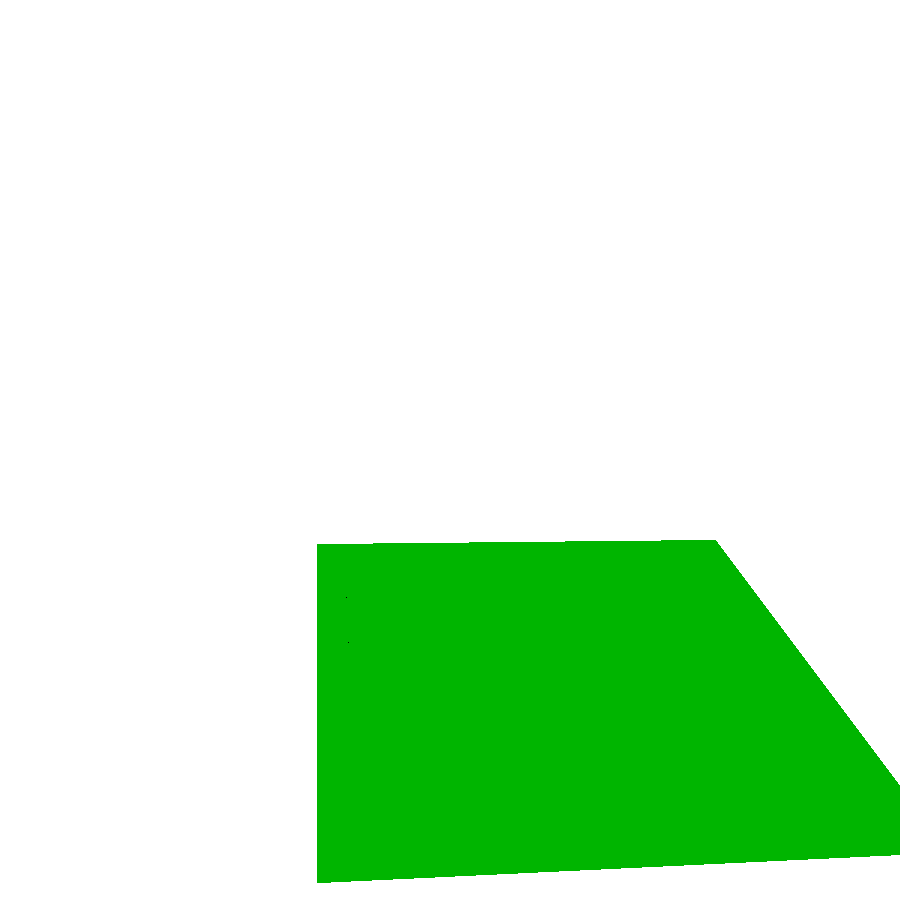
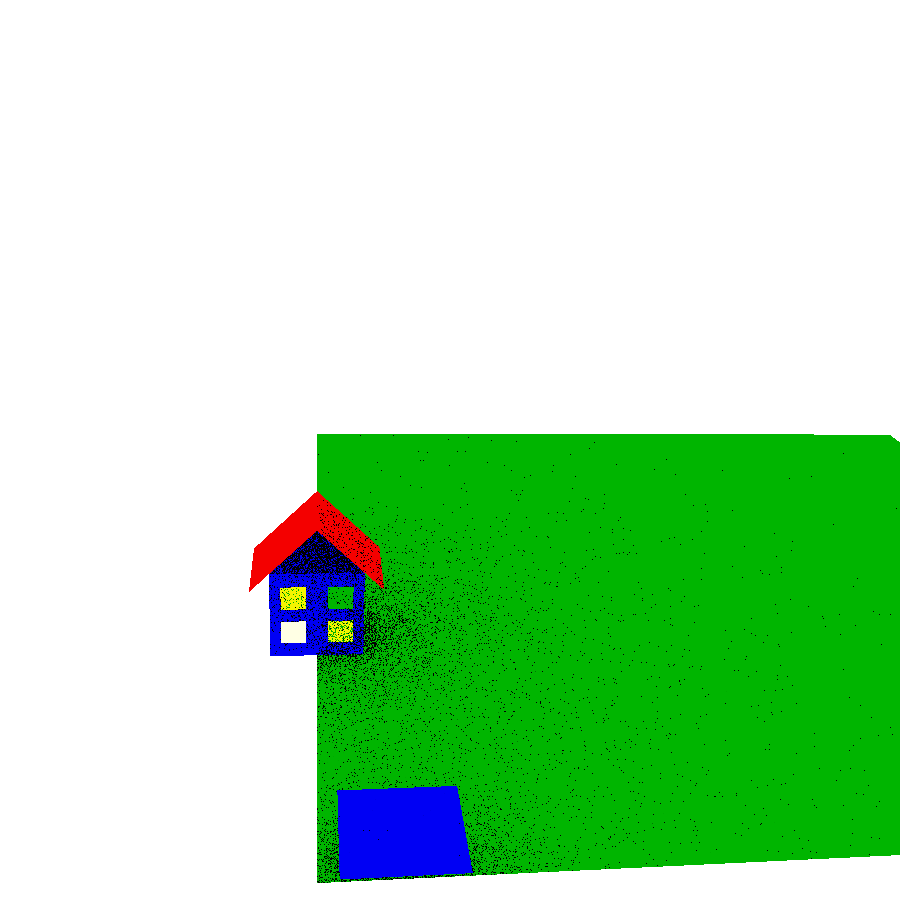
Box geht richtig

Changed region(s): [[0.28, 0.4667, 1.0, 0.8711], [0.3422, 0.8711, 0.56, 0.9956]]

diff --git a/src/cgg/a05/Group.java b/src/cgg/a05/Group.java
@@ -35,15 +35,10 @@ public class Group implements Shape {
         }
         box = BoundingBox.empty;
         for(int i= 0; i < elemente.size(); i++) {
-            box = box.extend(elemente.get(i).getBoundingBox());
+            box = box.extend(elemente.get(i).getBoundingBox().transform(transformation));
         }
-        if(!transformationInvert.equals(Mat44.identity)){
-            boxTransformiert = box.transform(transformationInvert);
-        }
-        else {
-            boxTransformiert = box;
-        }
-        //System.out.println(box.toString());
+        boxTransformiert = box;//.transform(transformationInvert);
+        System.out.println(box.toString());
     }
 
     public Group(Shape... shapes) {
@@ -61,7 +56,7 @@ public class Group implements Shape {
         elemente = shapes;
         box = BoundingBox.empty;
         for(int i= 0; i < elemente.size(); i++) {
-            box = box.extend(elemente.get(i).getBoundingBox());
+            box = box.extend(elemente.get(i).getBoundingBox().transform(transformation));
         }
         boxTransformiert = box;//.transform(transformation);
         System.out.println(box.equals(boxTransformiert));
@@ -78,7 +73,7 @@ public class Group implements Shape {
         Hit treffer = null; //nur fuer Initialisierung
         Ray r2 = new Ray(multiplyPoint(transformationInvert, r.getX0()), multiplyDirection(transformationInvert, r.getRichtung()), r.gettMin(), r.gettMax());
         
-        if(boxTransformiert.intersect(r2) == false) {
+        if(boxTransformiert.intersect(r) == false) {
             return null;
         }
         if(box.intersect(r) == false) {

diff --git a/src/cgg/a07/Main.java b/src/cgg/a07/Main.java
@@ -38,8 +38,8 @@ public class Main {
     DiffusStreuung gruen = new DiffusStreuung(new ConstantColor(color(0,0.52,0)), new ConstantColor(white), new ConstantColor(color(1000.0)));
     MaterialSpiegel spiegelMat = new MaterialSpiegel(new ConstantColor(white), new ConstantColor(white), new ConstantColor(color(1000.0)));
 
-    
-
+    System.out.println("Ebene:");
+    Group ebene = new Group(move(vec3(2, 0, 0)), new Ebene("quadratisch", 3, blau));
     Group wandVorne = new Group(multiply(move(vec3(0, 0, -10)), rotate(vec3(1,0,0), 90)), new Ebene("quadratisch", 3, blau));
     Group wandSeiteLinks = new Group(multiply(move(vec3(-1.5, 0, -11.5)), rotate(vec3(0,0,1), 90)), new Ebene("quadratisch", 3, blau));
     Group wandSeiteRechts = new Group(multiply(move(vec3(1.5, 0, -11.5)), rotate(vec3(0,0,1), -90)), new Ebene("quadratisch", 3, blau));
@@ -72,7 +72,7 @@ public class Main {
     Group alleHaeuser = new Group(haeuser);//fillPlane(haus, 1));
     Group szene = new Group(alleHaeuser);
     System.out.println("Welt:");
-    Group welt = new Group(boden, haus);
+    Group welt = new Group(boden, haus, ebene);
     
     Image image = new Image(width, height);
     RayTracer rayTracer = new RayTracer(kamera, welt, licht, white);
